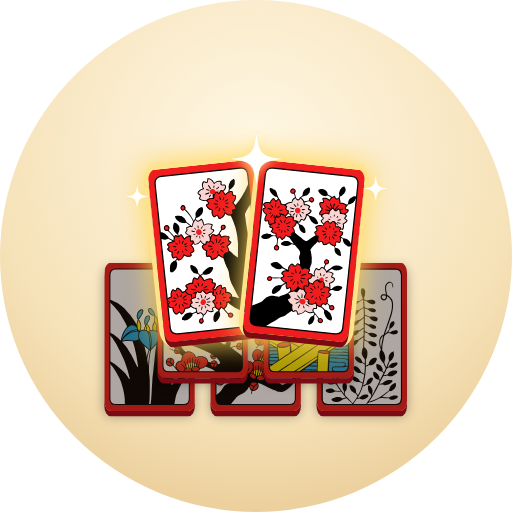
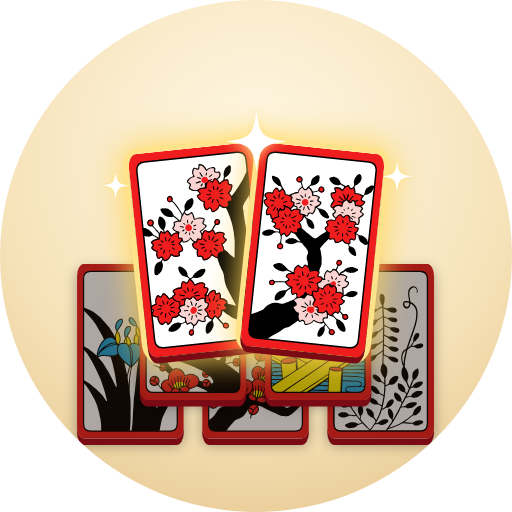
앱 아이콘 그림을 키워 여백 줄임
- 스토어·둥근 사각형 1.06배, 원형 0.92배, 적응형 전경 0.68배(원으로 잘려도 짝 두 장은 다 보이게)

diff --git a/StoreAssets/src/icons.js b/StoreAssets/src/icons.js
@@ -83,13 +83,13 @@ function page(v, size, { scale = 1, bg = true, art = true, radius = 0 } = {}) {
   <body><div class="shape">${inner}</div></body></html>`;
 }
 for (const [k, v] of Object.entries(variants)) {
-  // 스토어용: 정사각형 (Play 가 모서리를 둥글게 자르므로 그림은 86%로 줄여 잘리지 않게)
-  render(page(v, 512, { scale: 0.86 }), 'icon_' + k + '.png', 512, false);
+  // 스토어용: 정사각형 (Play 가 모서리를 둥글게 잘라도 패가 모서리에 걸리지 않을 만큼만 키움)
+  render(page(v, 512, { scale: 1.06 }), 'icon_' + k + '.png', 512, false);
   // 미리 보기·레거시 런처용: 둥근 모서리 정사각형(앱 아이콘 모양)과 원형
-  render(page(v, 512, { radius: 22, scale: 0.86 }), 'icon_' + k + '_rounded.png', 512, true);
-  render(page(v, 512, { radius: 50, scale: 0.78 }), 'icon_' + k + '_round.png', 512, true);
+  render(page(v, 512, { radius: 22, scale: 1.06 }), 'icon_' + k + '_rounded.png', 512, true);
+  render(page(v, 512, { radius: 50, scale: 0.92 }), 'icon_' + k + '_round.png', 512, true);
   // 안드로이드 적응형 아이콘 레이어(432): 배경(그라데이션)과 전경(그림, 가운데 안전 영역 66% 안에 들게 줄임)
   render(page(v, 432, { art: false }), 'icon_' + k + '_adaptive_bg.png', 432, false);
-  render(page(v, 432, { bg: false, scale: 0.66 }), 'icon_' + k + '_adaptive_fg.png', 432, true);
+  render(page(v, 432, { bg: false, scale: 0.68 }), 'icon_' + k + '_adaptive_fg.png', 432, true);
 }
 console.log('ok');
